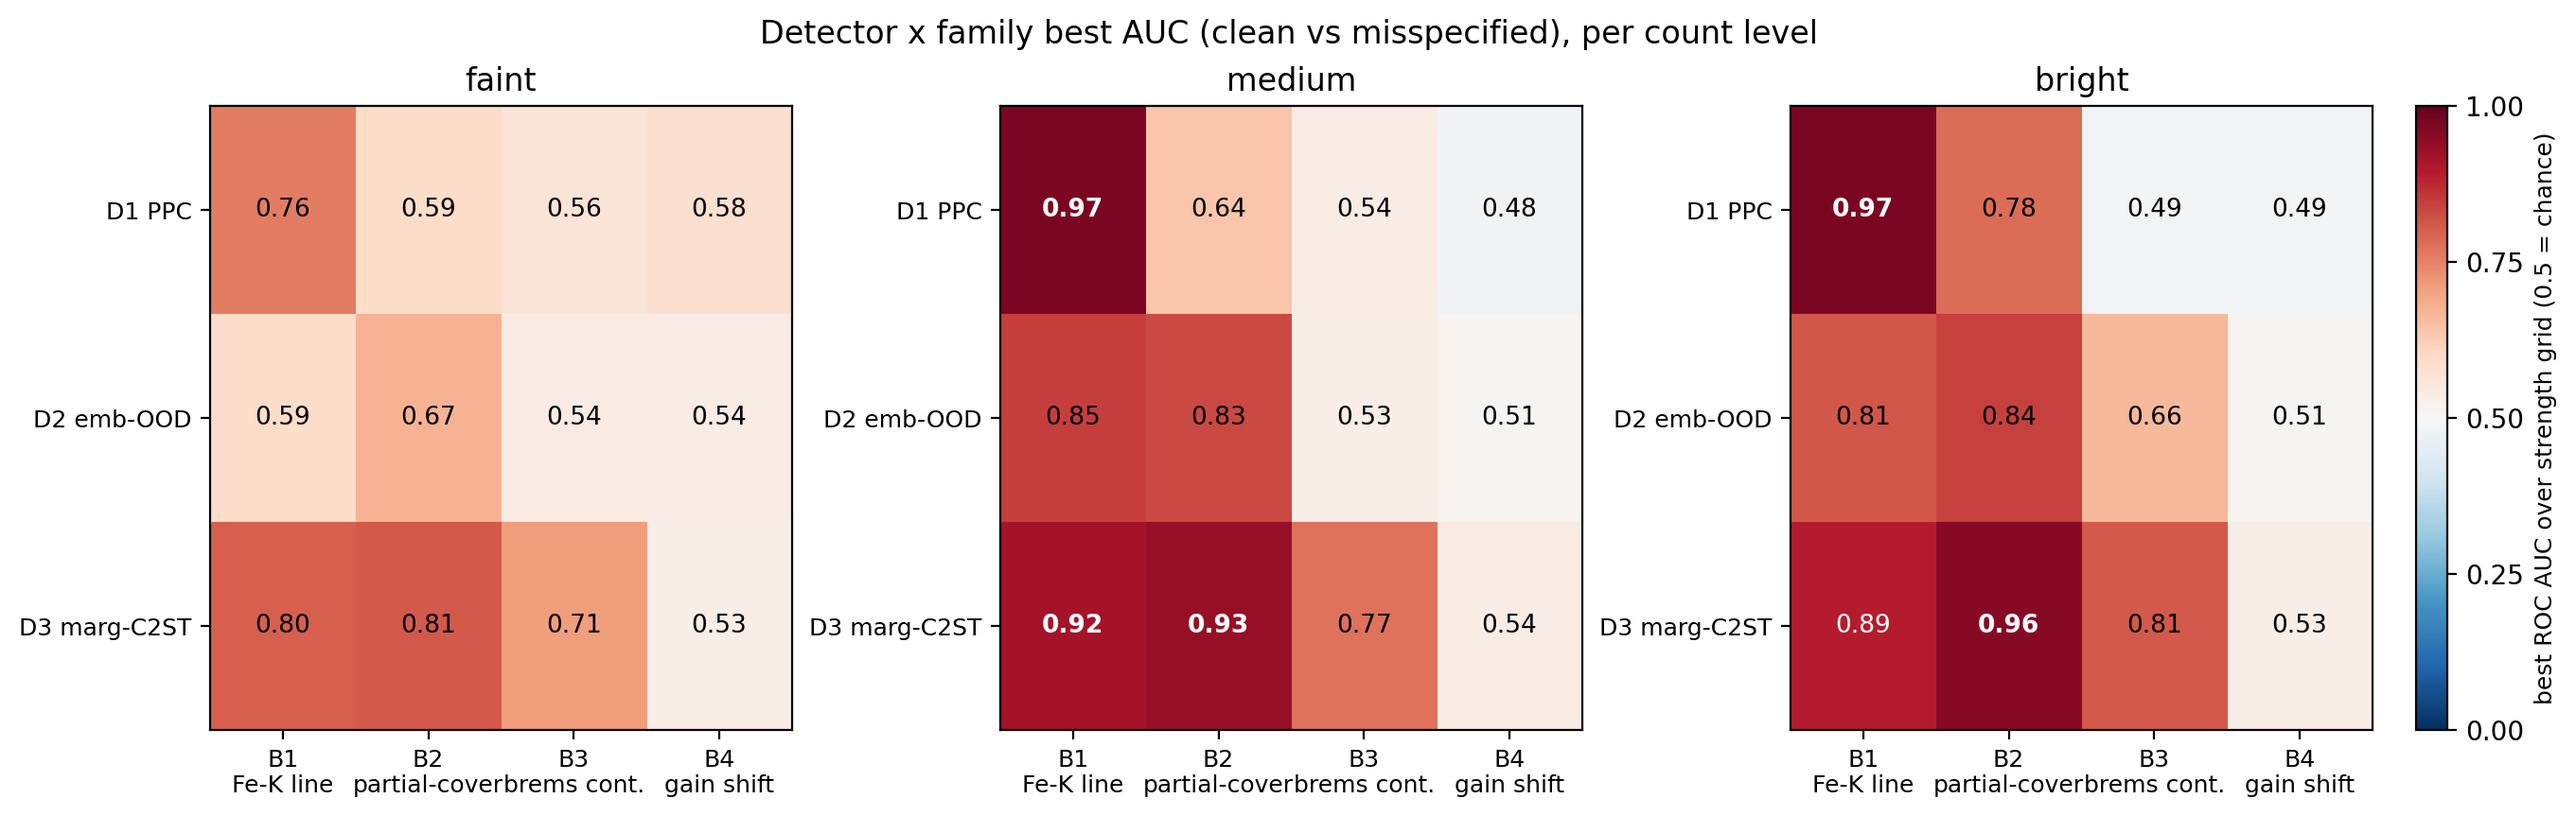
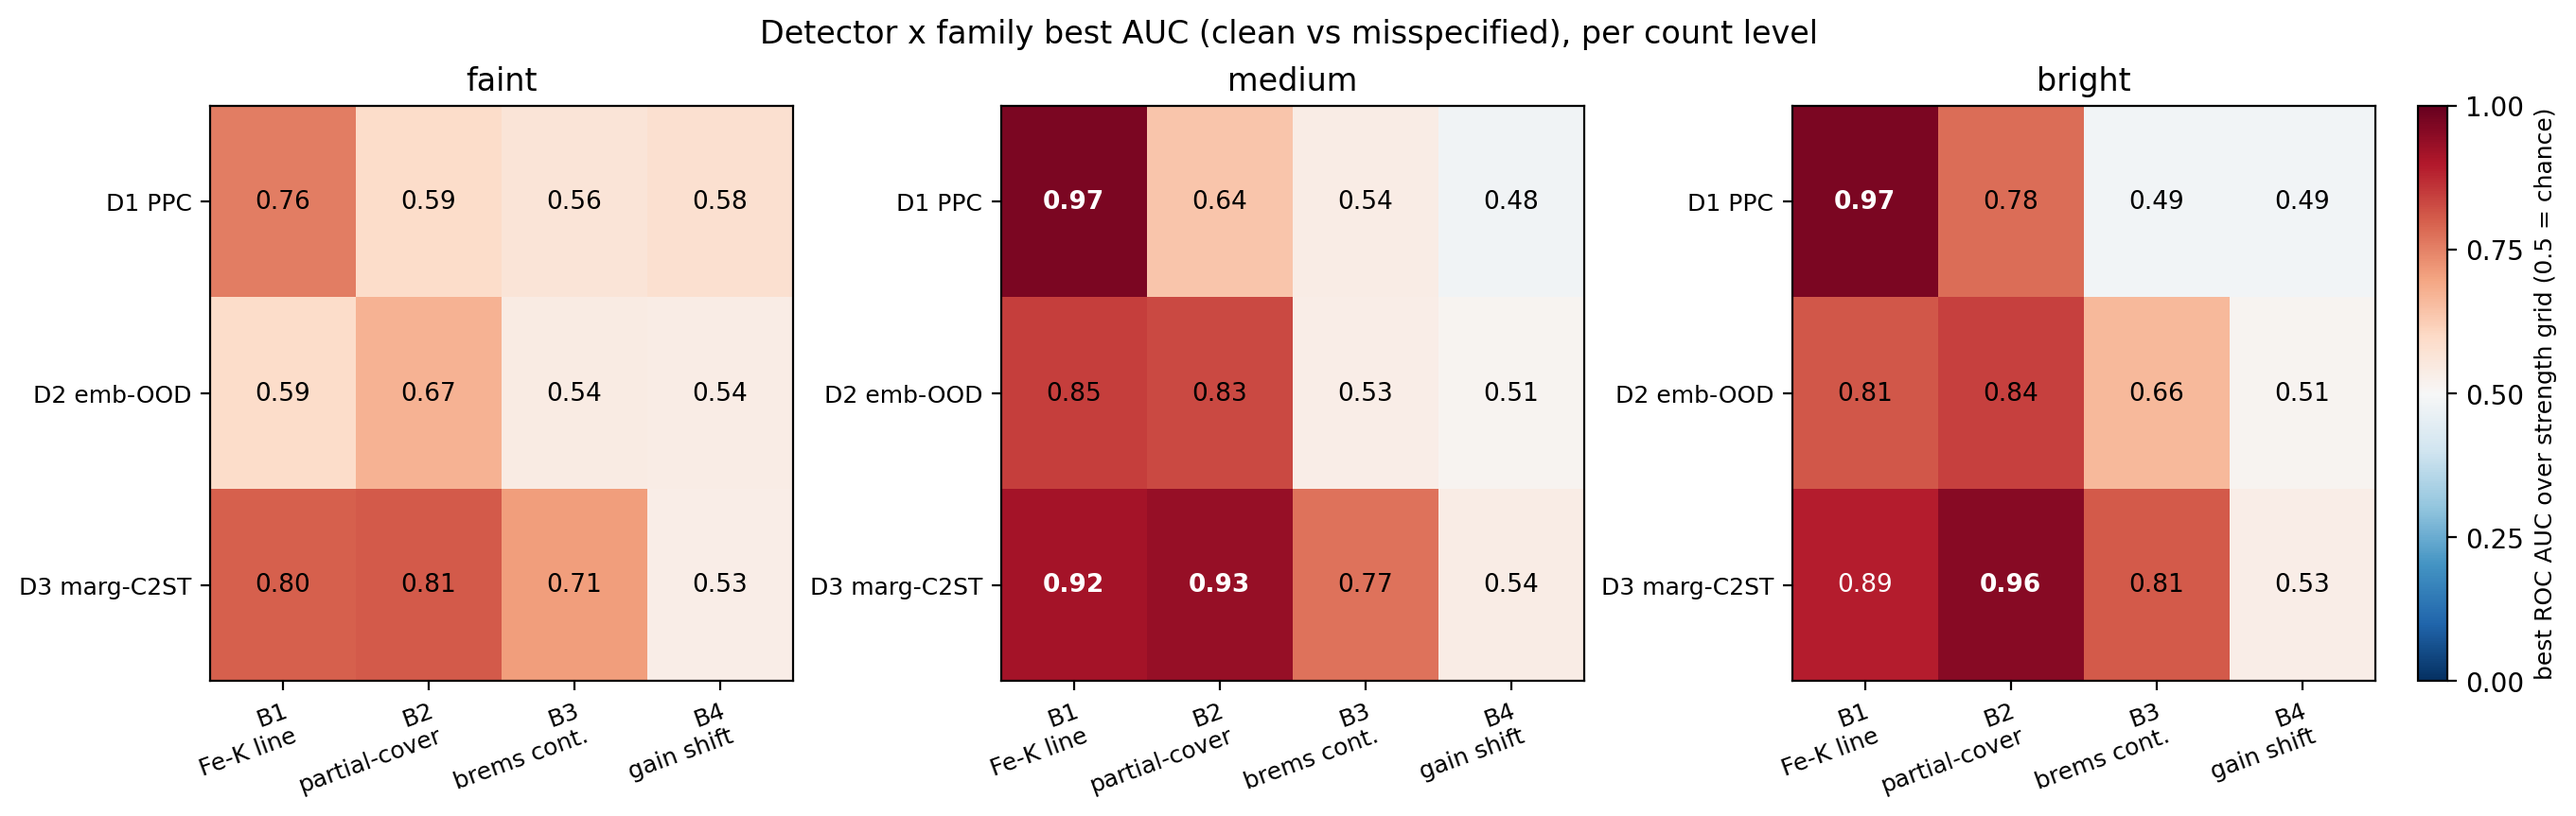
Label the D3 curves and refresh the stale figure annotations

diff --git a/scripts/make_support_figs.py b/scripts/make_support_figs.py
@@ -106,7 +106,8 @@ def make_auc_grid(results, out_path: Path):
         g = grids[lv]
         im = ax.imshow(g, cmap=cmap, norm=norm, aspect="auto")
         ax.set_xticks(range(len(FAMILIES)))
-        ax.set_xticklabels([FAM_LABEL[f] for f in FAMILIES], fontsize=9)
+        ax.set_xticklabels([FAM_LABEL[f] for f in FAMILIES], fontsize=9,
+                           rotation=20, ha="right", rotation_mode="anchor")
         ax.set_yticks(range(len(DETECTORS)))
         ax.set_yticklabels([DET_LABEL[d] for d in DETECTORS], fontsize=9)
         ax.set_title(lv, fontsize=12)
@@ -161,31 +162,64 @@ def make_dgamma_fig(cons, out_path: Path):
 def make_tarp_bright_curve(tarp_npz: Path, out_path: Path):
     """Bright TARP ECP-vs-alpha curve with the |ECP-alpha| area shaded.
 
-    The signed ATC cancels (the curve bows above the diagonal at
-    alpha<0.5 and below at alpha>0.5) and hides the over-confidence; the unsigned
-    abs-area and max|ECP-alpha| catch it. All numbers are recomputed from the npz.
+    The signed ATC cancels (the curve bows above the diagonal below the
+    ECP=alpha crossing and below the diagonal above it) and hides the
+    over-confidence; the unsigned abs-area and max|ECP-alpha| catch it. All
+    numbers, including the crossing point itself, are recomputed from the npz
+    (the crossing is not at alpha=0.5, so it is not assumed to be).
     """
     d = np.load(tarp_npz, allow_pickle=True)
     ecp = np.asarray(d["ecp"]); alpha = np.asarray(d["alpha"])
     atc = float(d["atc"])
-    absdiff = np.abs(ecp - alpha)
+    diff = ecp - alpha
+    absdiff = np.abs(diff)
     abs_area = float(np.trapezoid(absdiff, alpha))
     max_dev = float(np.max(absdiff))
     amax = float(alpha[np.argmax(absdiff)])
 
+    # Interior zero-crossing of ECP-alpha: where the curve actually switches
+    # from bowing above the diagonal to bowing below it. alpha=0 and alpha=1
+    # are trivial fixed points (ECP=alpha there by construction) so they are
+    # excluded; take the first interior sign change and linearly interpolate
+    # between its bracketing grid points for a sub-grid-spacing estimate.
+    interior = np.where((alpha > 1e-9) & (alpha < 1 - 1e-9))[0]
+    sign_changes = np.where(np.diff(np.sign(diff[interior])) != 0)[0]
+    if len(sign_changes):
+        i = interior[sign_changes[0]]
+        a0, a1 = alpha[i], alpha[i + 1]
+        d0, d1 = diff[i], diff[i + 1]
+        crossing = float(a0 + (0.0 - d0) * (a1 - a0) / (d1 - d0))
+    else:
+        crossing = 0.5  # no interior crossing found; fall back to the midpoint
+
+    # read the bright-level median count directly from its summary.json rather
+    # than hardcoding it, so the label tracks the data instead of going stale.
+    summary_path = tarp_npz.parent / "summary.json"
+    with open(summary_path) as f:
+        counts = float(json.load(f)["median_total_counts"])
+
     fig, ax = plt.subplots(figsize=(5.4, 5.4))
     ax.plot([0, 1], [0, 1], ls=(0, (4, 3)), color="#444444", lw=1.3,
             label="ideal (ECP = nominal)")
-    ax.plot(alpha, ecp, color="#D55E00", lw=2.3, label="bright ECP (~9982 ct)")
+    ax.plot(alpha, ecp, color="#D55E00", lw=2.3, label=f"bright ECP (~{counts:.0f} ct)")
     ax.fill_between(alpha, alpha, ecp, color="#D55E00", alpha=0.18,
                     label=f"|ECP−α|, abs-area {abs_area:.3f}")
     ax.annotate(f"max|ECP−α| = {max_dev:.3f}\nat α = {amax:.2f}",
                 xy=(amax, ecp[np.argmax(absdiff)]), xytext=(0.40, 0.18),
                 fontsize=9, arrowprops=dict(arrowstyle="->", color="#333333", lw=1.0))
-    ax.text(0.22, 0.42, "bows ABOVE\n(α<0.5)", fontsize=8, color="#7a3500",
-            ha="center")
-    ax.text(0.78, 0.66, "bows below\n(α>0.5)", fontsize=8, color="#7a3500",
-            ha="center")
+    # Place the two "bows above / below" labels inside their own region
+    # (split at the computed crossing, not a hardcoded 0.5), offset from both
+    # the curve and the diagonal by a fixed margin so the text sits in clear
+    # space regardless of where the crossing lands.
+    margin = 0.09
+    x_above = 0.44 * crossing
+    y_above = max(x_above, float(np.interp(x_above, alpha, ecp))) + margin
+    x_below = crossing + 0.56 * (1.0 - crossing)
+    y_below = min(x_below, float(np.interp(x_below, alpha, ecp))) - margin
+    ax.text(x_above, y_above, f"bows ABOVE\n(α<{crossing:.2f})", fontsize=8,
+            color="#7a3500", ha="center")
+    ax.text(x_below, y_below, f"bows below\n(α>{crossing:.2f})", fontsize=8,
+            color="#7a3500", ha="center")
     ax.set_xlim(0, 1); ax.set_ylim(0, 1); ax.set_aspect("equal", "box")
     ax.grid(alpha=0.25, lw=0.7)
     ax.set_xlabel("nominal credibility level α")

diff --git a/scripts/make_money_plot.py b/scripts/make_money_plot.py
@@ -283,10 +283,14 @@ def plot_detection(ax, level="medium"):
         ax.plot(fpr, tpr, color=st["color"], ls=st["ls"], lw=2.1, zorder=3,
                 label=f"{st['label']} [{c['detector']}, AUC {auc:.2f}]")
 
-    # (ii) D3 population-separability overlay (dotted grey) -- segregated, labelled
-    # once, not as a per-spectrum win. Show only where it is well above its ~0.5-AUC
-    # control floor (B2/B3) so the panel stays readable.
-    d3_drawn = False
+    # (ii) D3 population-separability overlay (dotted) -- segregated by keeping the
+    # dotted linestyle (vs the solid per-spectrum curves above), but colored by
+    # family (same OKABE_ITO family color as its solid curve) so the three D3
+    # curves are distinguishable instead of stacking as identical grey dashes.
+    # Show only where it is well above its ~0.5-AUC control floor (B2/B3) so the
+    # panel stays readable. One legend entry per family that is actually drawn
+    # (checked against the rendered figure: 8 entries total fit the panel fine
+    # at the existing fontsize, so no combined-entry fallback was needed).
     for fam in order:
         if fam not in d3_cells:
             continue
@@ -294,10 +298,10 @@ def plot_detection(ax, level="medium"):
         fpr, tpr, auc = roc_for_cell(scores, level, fam, c["strength"], "D3")
         if auc < 0.6:   # at/near the D3 control floor -> not informative to draw
             continue
-        lbl = ("D3 population separability\n(not a per-spectrum score)") if not d3_drawn else None
-        ax.plot(fpr, tpr, color="#777777", ls=":", lw=1.6, zorder=2,
-                alpha=0.85, label=lbl)
-        d3_drawn = True
+        fam_color = FAMILY_STYLE[fam]["color"]
+        lbl = f"{fam} D3 (population, not per-spectrum)"
+        ax.plot(fpr, tpr, color=fam_color, ls=":", lw=1.8, zorder=2,
+                alpha=0.9, label=lbl)
 
     ax.set_xlim(0, 1)
     ax.set_ylim(0, 1)

diff --git a/README.md b/README.md
@@ -52,10 +52,14 @@ retrain (deviation 0.014–0.033): every robustness variant lands near the diago
 which identifies the sagging bright curve as a single-flow training artifact.
 Panel (b): detection ROC at the medium (~1000-count) level, the best per-spectrum
 detector (D1/D2) per misspecification family at its strongest grid point; B4 (gain
-shift) sits on the chance diagonal. D3 (dotted grey) is overlaid as a
-population-separability statistic, a supervised two-sample test separate from the
-per-spectrum trust scores (see the D3 footnote in [Detection](#detection)).
-Colorblind-safe Okabe–Ito palette, dpi 220.
+shift) sits on the chance diagonal. This is one grid cell per family, so it can
+differ from the [Detection](#detection) table below, which reports the best AUC
+over the whole strength grid per family (see B3, B4 at medium: different detector,
+different number). Both are correct, they just answer different questions, one
+grid point here vs. the best anywhere on the grid there. D3 (dotted, colored by
+family) is overlaid as a population-separability statistic, a supervised
+two-sample test separate from the per-spectrum trust scores (see the D3 footnote
+in [Detection](#detection)). Colorblind-safe Okabe–Ito palette, dpi 220.
 
 Nested sampling (UltraNest) on the exact same Poisson likelihood is ~8 800–13 000×
 slower per spectrum than the amortized NPE but agrees with it to 0.04–0.10 of the
